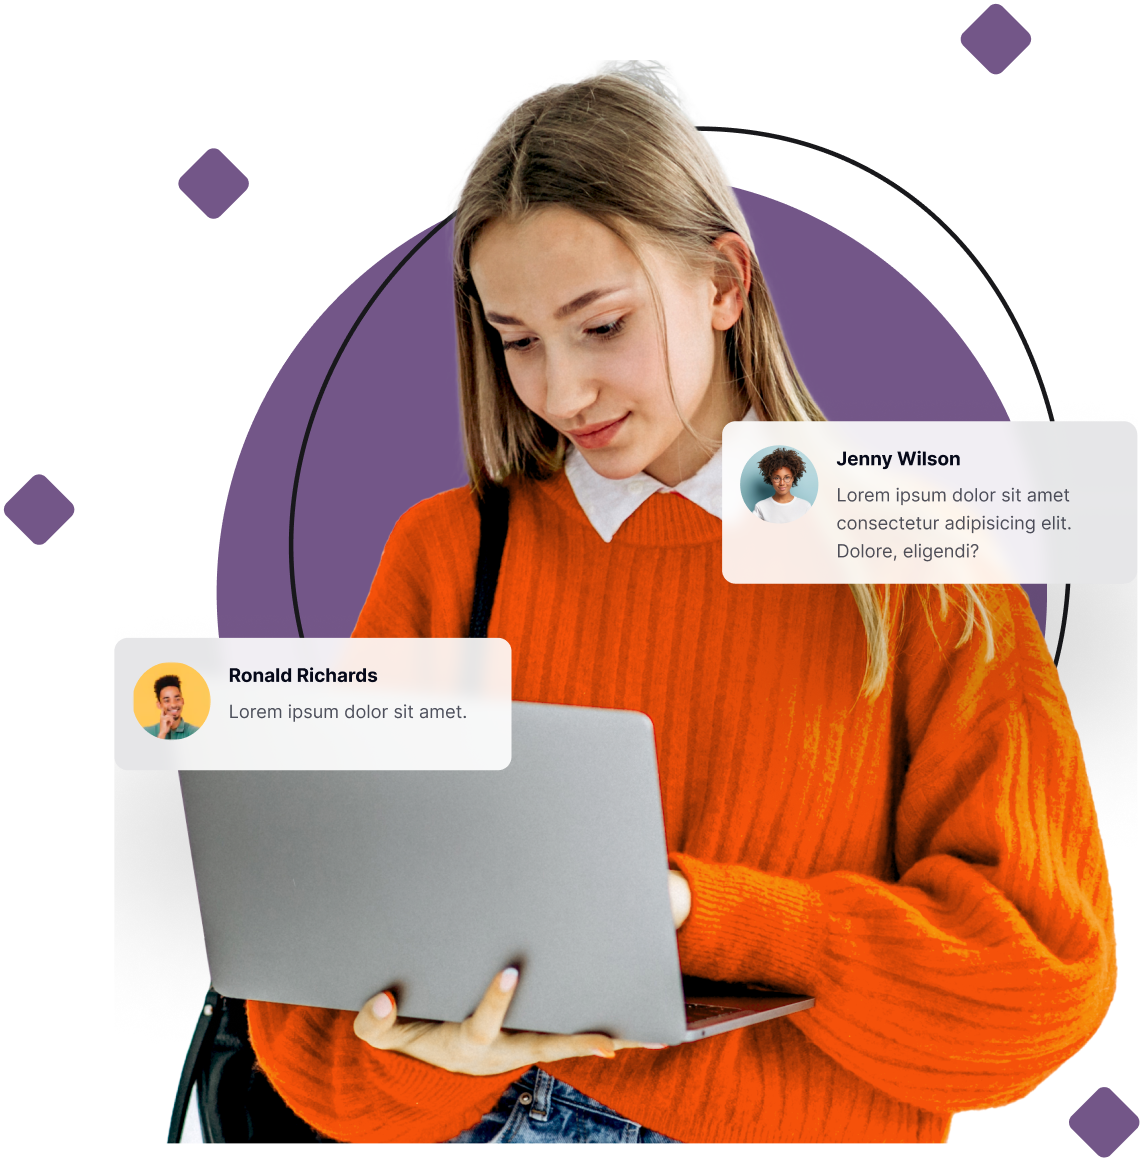
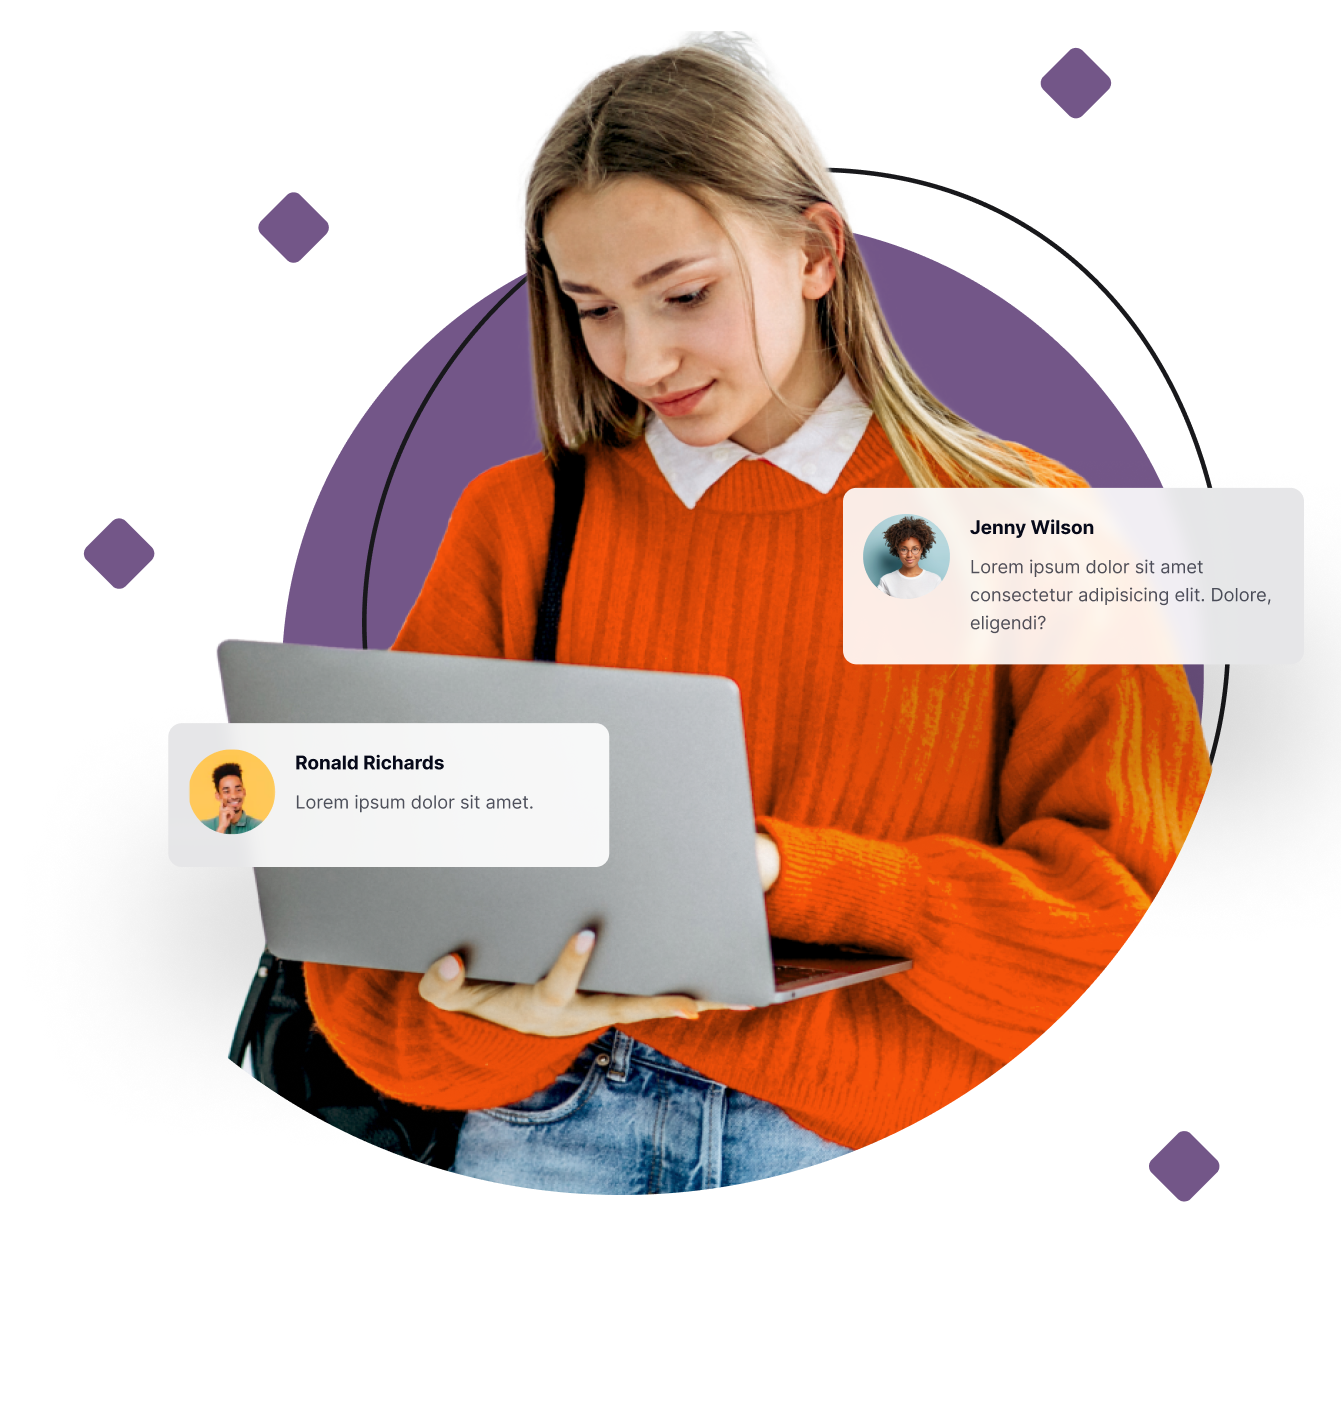
hero image changed

diff --git a/src/components/container/Home.jsx b/src/components/container/Home.jsx
@@ -23,14 +23,15 @@ const Home = () => {
   };
   return (
     <div className="section" id="home">
-      <div className="md:flex items-center justify-center">
+      <div className="md:flex items-center justify-between">
         <div>
           <div className="font-bold text-xs text-Teal mb-4">
             {" "}
             your e-learning partner
           </div>
           <div className="sm:text-[2.5rem] text-[1.825rem] font-bold">
-            The <span className="text-Teal">Future</span> Of <br /> Education Is Here! 
+            The <span className="text-Teal">Future</span> Of <br /> Education Is
+            Here!
           </div>
           <p className="text-sm leading-7 text-gray max-w-sm">
             Lorem, ipsum dolor sit amet consectetur adipisicing elit. Vero
@@ -45,17 +46,17 @@ const Home = () => {
             </button>
           </div>
         </div>
-        <div className="md:w-[60%]">
+        <div className="md:w-[60%] mt-8 ml-4">
           <img src={hero} alt="" />
         </div>
       </div>
       <div>
         <br />
-        <br /><br />
+
         <p className="text-center text-xl">
           We collaborate with{" "}
           <span className="text-Teal">
-            100+ leading universities ans companies
+            100+ leading universities and companies
           </span>
         </p>
         <motion.div
